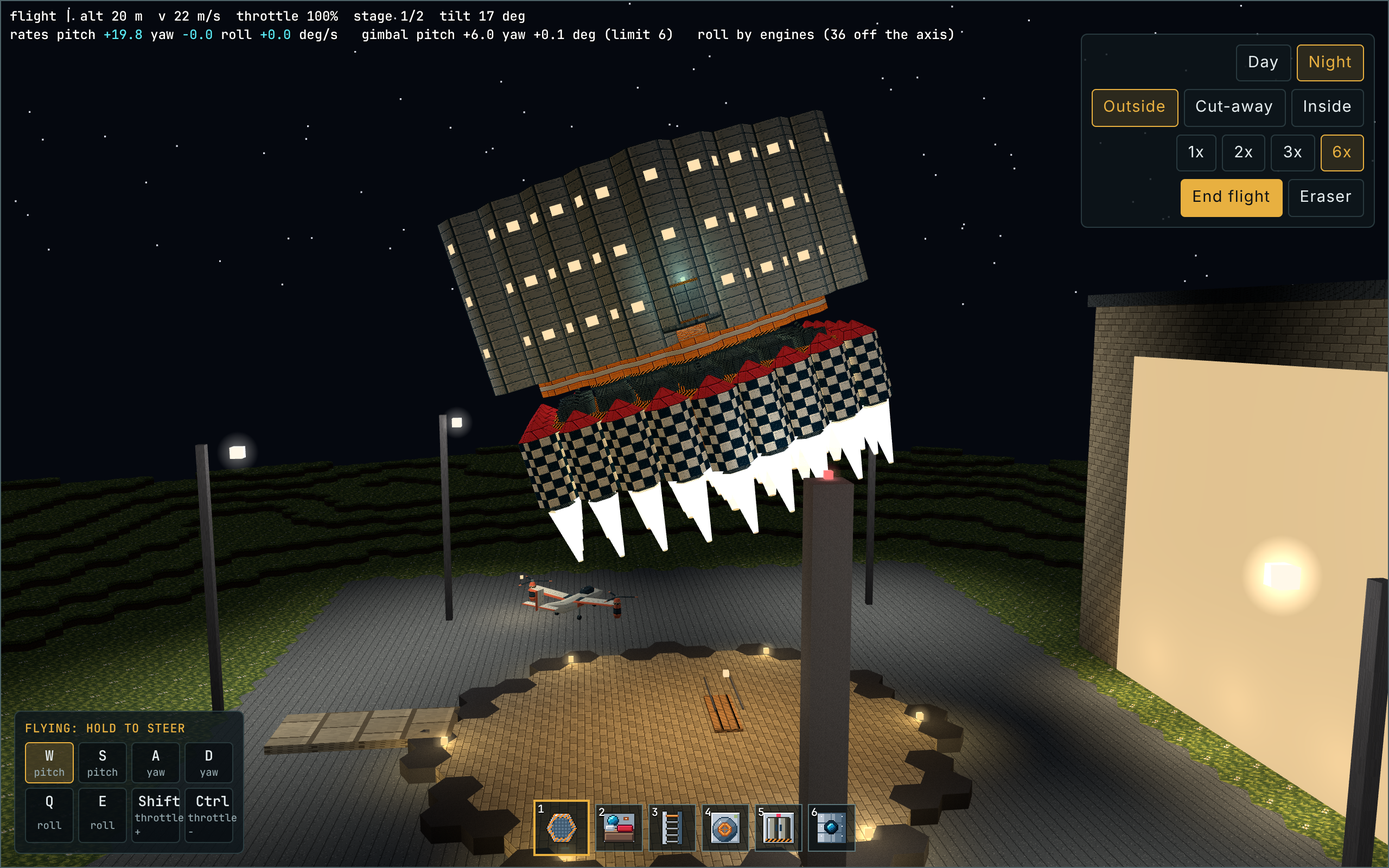
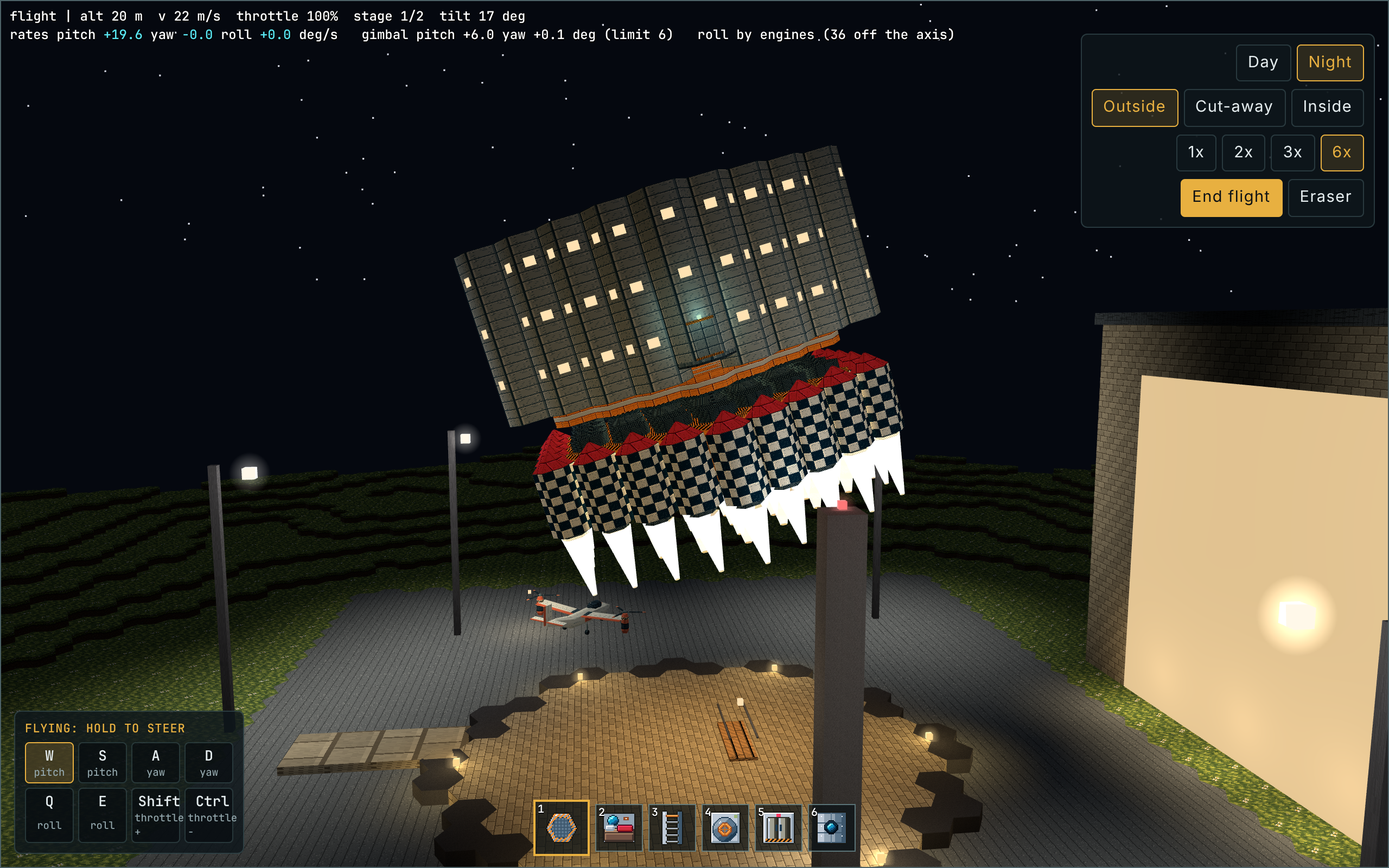
M21: a steady launch camera
The owner: "the camera in the rocket launch is unplayable, it jiters way
too much". Cause: the chase target moved by a fixed lerp per rendered
frame toward the centre of mass, so the lag changed with every frame time
(and the centre of mass stepped every 0.25 s, and a random pad shake was
added). The camera now follows a fixed point of the stack with a
critically damped, frame-rate independent follow, keeps the viewer's own
yaw, pitch and distance, frames the whole stack, and the pad shake is
gone. Measured over 3 s of a held-W launch at uneven frame times, the
camera's direction flips fell from 56-61 to 0-3.

Claude-Session: https://claude.ai/code/session_01SztpvFkncDFbmhJsds55PW

Changed region(s): [[0.0, 0.125, 1.0, 1.0], [0.0, 0.875, 0.0938, 1.0], [0.9375, 0.3438, 1.0, 0.375]]

diff --git a/docs/mockups/ship-tiers.html b/docs/mockups/ship-tiers.html
@@ -1033,6 +1033,11 @@ function startLaunch() {
     S: A.S.map(s => ({liq: s.liqProp, liq0: s.liqProp, srb: s.srbProp, srb0: s.srbProp, liqMdot: s.liqMdot, srbMdot: s.srbMdot, srbGone: false})),
     vel: new THREE.Vector3(), q: new THREE.Quaternion(), w: new THREE.Vector3(), cmd: new THREE.Vector3(), origin: new THREE.Vector3(0, 0, 0)};
   refreshFlight(W, true);
+  // frame the whole stack: its bounding sphere about the middle of its height
+  const top = Math.max(...A.cells.map(c => c.y)) + 1, rM = Math.max(0, ...A.cells.map(c => hexDist(c.q, c.r)));
+  L.center = new THREE.Vector3(0, top / 2, 0); L.radius = Math.hypot(top / 2, rM * HW + HR);
+  W.orbitCam.dist = Math.max(W.orbitCam.dist, L.radius / Math.sin(W.fov / 2 / DEG) * 1.15);
+  W.follow = W.rocket.localToWorld(L.center.clone()); W.followVel = new THREE.Vector3(); W.orbitCam.target.copy(W.follow);
   W.ghosts.clear();
   kick(1e9); renderCtl(); renderKeys();
 }
@@ -1138,7 +1143,6 @@ function flyStep(W, dt) {
   W.rocket.quaternion.copy(L.q);
   W.rocket.position.copy(L.cmW).sub(L.cm.clone().applyQuaternion(L.q)); W.rocket.position.y += W.base;
   const S = L.S[L.k], liqOn = S && S.liq > 0 && L.thr > 0, srbOn = S && S.srb > 0;
-  if (L.mode === "pad" && (liqOn || srbOn)) W.rocket.position.x += (Math.random() - 0.5) * 0.06;   // straining on the pad
   for (const e of L.eng) {
     const srb = e.m.userData.p === "srb", on = (srb ? srbOn : liqOn) && L.mode !== "crashed";
     if (e.m.gimbal) e.m.gimbal.rotation.set(e.dz, 0, -e.dx);
@@ -1150,7 +1154,9 @@ function flyStep(W, dt) {
     if (d.o.position.y > 1.2) { d.v.y -= g * dt; d.o.position.addScaledVector(d.v, dt); d.o.rotation.x += d.spin.x * dt; d.o.rotation.z += d.spin.z * dt; }
     else { d.o.position.y = 1.2; d.v.set(0, 0, 0); }
   }
-  if (!W.cam.fp) W.cam.target.lerp(L.cmW.clone().add(new THREE.Vector3(0, W.base, 0)), 0.12);
+  // the chase camera's goal: the middle of the stack's bounding sphere, in the world. The camera follows it
+  // with frame-rate independent smoothing (placeCamera) and keeps the viewer's own yaw and pitch.
+  W.rocket.updateMatrixWorld(); W.follow = W.rocket.localToWorld(L.center.clone());
   if (L.mode === "pad" && !(liqOn || srbOn) && L.t > 1) { L.msg = "no thrust: throttle up (Shift or Z)"; }
   if (L.mode === "pad" && L.t > 4 && (liqOn || srbOn) && L.S[0] && L.k === 0) L.stuckMsg = true;
   if (L.endAt && L.t > L.endAt) endLaunch();
@@ -1167,7 +1173,7 @@ function flightHud(W) {
 rates pitch <span class='c'>${sgn(L.w.x * DEG)}</span> yaw <span class='c'>${sgn(-L.w.z * DEG)}</span> roll <span class='c'>${sgn(L.w.y * DEG)}</span> deg/s   gimbal pitch ${sgn(-avg("dz"))} yaw ${sgn(-avg("dx"))} deg (limit ${lim.toFixed(0)})   roll by ${roll}${VAB.view === "inside" ? "\n<span class='g'>aboard</span>: standing on the deck in the rocket's frame" : ""}`;
 }
 function endLaunch() {
-  const W = WORLDS.vab; W.launch = null;
+  const W = WORLDS.vab; W.launch = null; W.follow = null;
   W.debris.forEach(d => W.scene.remove(d.o)); W.debris = [];
   W.rocket.position.set(0, W.base, 0); W.rocket.quaternion.identity();
   for (const k in KEYS) KEYS[k] = false;
@@ -1588,7 +1594,7 @@ function buildLanderWorld(name, sheet, kind) {
     const burning = F.mode === "up" || F.mode === "land";
     W.craft.flames.forEach(f => { f.visible = burning; f.scale.set(1 + 0.1 * Math.sin(t * 40), 0.85 + 0.25 * Math.random(), 1); });
     W.flameLamp.p.set(0, 1.9 + F.y - 1.5, 0); W.flameLamp.i = burning ? Math.max(0, 6 - F.y * 0.03) : 0;
-    W.cam.target.lerp(new THREE.Vector3(0, 4 + Math.min(F.y, 60) * 0.8, 0), 0.06);
+    W.follow = (W.follow || new THREE.Vector3()).set(0, 4 + Math.min(F.y, 60) * 0.8, 0);
   };
   const A = analyse(G1, cells instanceof Map ? cells : new Map(cells.map(c => [key(c.q, c.r, c.y), c.p])));
   W.hud = () => am ? `Cinder, basalt flats | antimatter lander <span class='g'>${W.fly.mode === "down" ? "landed from Pale Blue's surface" : W.fly.mode === "up" ? "lifting off" : "setting down"}</span>  alt ${Math.round(W.fly.y)} m\nsurface to surface 5 min 10 s, no orbit stop  delta-v used 9.8 of ${(A.total / 1000).toFixed(0)} km/s  TWR ${A.S[0].twr.toFixed(1)} at 1 g`
@@ -1970,26 +1976,41 @@ const STILL = Q.has("still");
 let framesLeft = STILL ? 6 : Infinity, looping = false, last = 0, t0 = 0;
 function kick(n = 3) { if (!STILL) return; framesLeft = Math.max(framesLeft, n); if (!looping && renderer) { looping = true; last = performance.now(); requestAnimationFrame(loop); } }
 const tmpE = new THREE.Vector3(), tmpD = new THREE.Vector3();
+// critically damped follow (the SmoothDamp form): frame-rate independent, never overshoots, so a camera
+// chasing a moving point holds a steady lag whatever the frame time
+function smoothDamp(cur, goal, vel, T, dt) {
+  const w = 2 / T, x = w * dt, e = 1 / (1 + x + 0.48 * x * x + 0.235 * x * x * x);
+  const ch = cur.clone().sub(goal), tmp = vel.clone().addScaledVector(ch, w).multiplyScalar(dt);
+  vel.sub(tmp.clone().multiplyScalar(w)).multiplyScalar(e);
+  cur.copy(goal).add(ch.add(tmp).multiplyScalar(e));
+}
+// place the world's camera: aboard, at the walker's eye in the craft's frame; outside, on the viewer's
+// yaw, pitch and distance round a target that follows W.follow (a flight or a landing) smoothly
+function placeCamera(W, dt) {
+  const C = W.cam;
+  if (C.fp) {
+    if (!W.fpOn) { W.fpOn = true; W.camera.fov = 72; W.camera.near = 0.05; W.camera.updateProjectionMatrix(); }
+    tmpE.copy(C.eye); if (C.frame) { C.frame.updateMatrixWorld(); C.frame.localToWorld(tmpE); }
+    W.camera.position.copy(tmpE);
+    tmpD.set(Math.sin(C.yaw) * Math.cos(C.pitch), Math.sin(C.pitch), Math.cos(C.yaw) * Math.cos(C.pitch)).add(tmpE);
+    W.camera.lookAt(tmpD);
+  } else {
+    if (W.fpOn) { W.fpOn = false; W.camera.fov = W.fov; W.camera.near = W.near; W.camera.updateProjectionMatrix(); }
+    if (W.follow) { if (!W.followVel) W.followVel = new THREE.Vector3(); smoothDamp(C.target, W.follow, W.followVel, 0.35, dt); }
+    const cp = Math.cos(C.pitch);
+    W.camera.position.set(C.target.x + C.dist * cp * Math.sin(C.yaw), C.target.y + C.dist * Math.sin(C.pitch), C.target.z + C.dist * cp * Math.cos(C.yaw));
+    W.camera.lookAt(C.target);
+  }
+  W.camera.updateMatrixWorld();
+  return C;
+}
 function loop(now) {
   const dt = Math.max(0, Math.min(0.05, (now - last) / 1000)); last = now; const t = (now - t0) / 1000;
   const W = active;
   if (W) {
     if (W.name === "orbit" && W.dirty) { W.dirty = false; W.reset(false); }
     W.update(dt, t);
-    const C = W.cam;
-    if (C.fp) {
-      if (!W.fpOn) { W.fpOn = true; W.camera.fov = 72; W.camera.near = 0.05; W.camera.updateProjectionMatrix(); }
-      tmpE.copy(C.eye); if (C.frame) { C.frame.updateMatrixWorld(); C.frame.localToWorld(tmpE); }
-      W.camera.position.copy(tmpE);
-      tmpD.set(Math.sin(C.yaw) * Math.cos(C.pitch), Math.sin(C.pitch), Math.cos(C.yaw) * Math.cos(C.pitch)).add(tmpE);
-      W.camera.lookAt(tmpD);
-    } else {
-      if (W.fpOn) { W.fpOn = false; W.camera.fov = W.fov; W.camera.near = W.near; W.camera.updateProjectionMatrix(); }
-      const cp = Math.cos(C.pitch);
-      W.camera.position.set(C.target.x + C.dist * cp * Math.sin(C.yaw), C.target.y + C.dist * Math.sin(C.pitch), C.target.z + C.dist * cp * Math.cos(C.yaw));
-      W.camera.lookAt(C.target);
-    }
-    W.camera.updateMatrixWorld();
+    const C = placeCamera(W, dt);
     if (W.moon) W.moon.visible = !C.fp;   // aboard, the hull shades you from the moon
     if (PM) PM.window.emissiveIntensity = W.time === "night" ? (C.fp ? 0.04 : 1.0) : 0.12;   // aboard at night a porthole shows the dark outside
     pushLamps(W);

diff --git a/docs/screenshots/mockup-ship-tiers/README.md b/docs/screenshots/mockup-ship-tiers/README.md
@@ -26,7 +26,7 @@ GPU when there is one"). Served with `python3 -m http.server 8764` from
 | `1-vab-night.png` | The same at night: pad rim lamps, floodlights and gantry lamps throw their own pools, the portholes glow with the decks' lamps, the field outside the pools is near-black, the moon dim. | `?tab=vab&preset=colony&time=night&still` |
 | `1-vab-cutaway-night.png` | Cut-away at night: the walls on the camera's half are hidden, so the three decks, their cabins, the ladder up the core and each deck's lamps show. | `...&time=night&view=cut&still` |
 | `1-vab-crew-day.png` | The Crew rocket, two decks (ring 2): chemical cluster and boosters, a decoupler ring, a nuclear upper stage, two decks and the pod; the gangway runs to its hatch. | `?tab=vab&preset=crew&time=day&still` |
-| `1-vab-launch-night.png` | The crew rocket's flight at night, 2.4 s in, stick centred: the dampeners hold it upright, the boosters and core lit, the exhaust lighting the pad. | `?tab=vab&preset=crew&time=night&shot=1&launch=1&still`, taken 2.4 s into the flight |
+| `1-vab-launch-night.png` | The crew rocket lifting off at night, about 1 s in at 2 m, stick centred: the dampeners hold it upright, the boosters and core lit, the exhaust lighting the pad. Retaken after the chase-camera fix: the camera now frames the stack's whole bounding sphere. | `?tab=vab&preset=crew&time=night&shot=1&launch=1&freeze=2.4&still`, taken about 1 s into the flight (the software renderer was still stepping when the shot was taken) |
 | `1-vab-too-heavy.png` | The Too heavy preset: TWR 0.55, the one example that fails its checks by design. | `?tab=vab&preset=heavy&time=day&still` |
 | `2-layer-editor.png` | The working panel under the stage, on the colony lander's layer 11: layer tabs (decks underlined green), the 61-cell disc in plan with the layer below ghosted and every cell a walker stands in outlined green, symmetry 1/2/3/6, the part palette with the six interior parts, the presets, the stack in section through the core with the walkers marked, the stage table and every check passing. | `?tab=vab&preset=colony&time=day&layer=11&still`, the `#work` panel |
 | `3-inside-night.png` | Aboard: first person on the colony lander's lowest deck (L7) at night, beside the ladder shaft, looking across to the cabins and the portholes. Only that deck's lamps light it (the hull and the floors stand between it and every other lamp, and the moon is shut out). Drag to look; nothing moves until you do. | `...&time=night&view=inside&still` |
